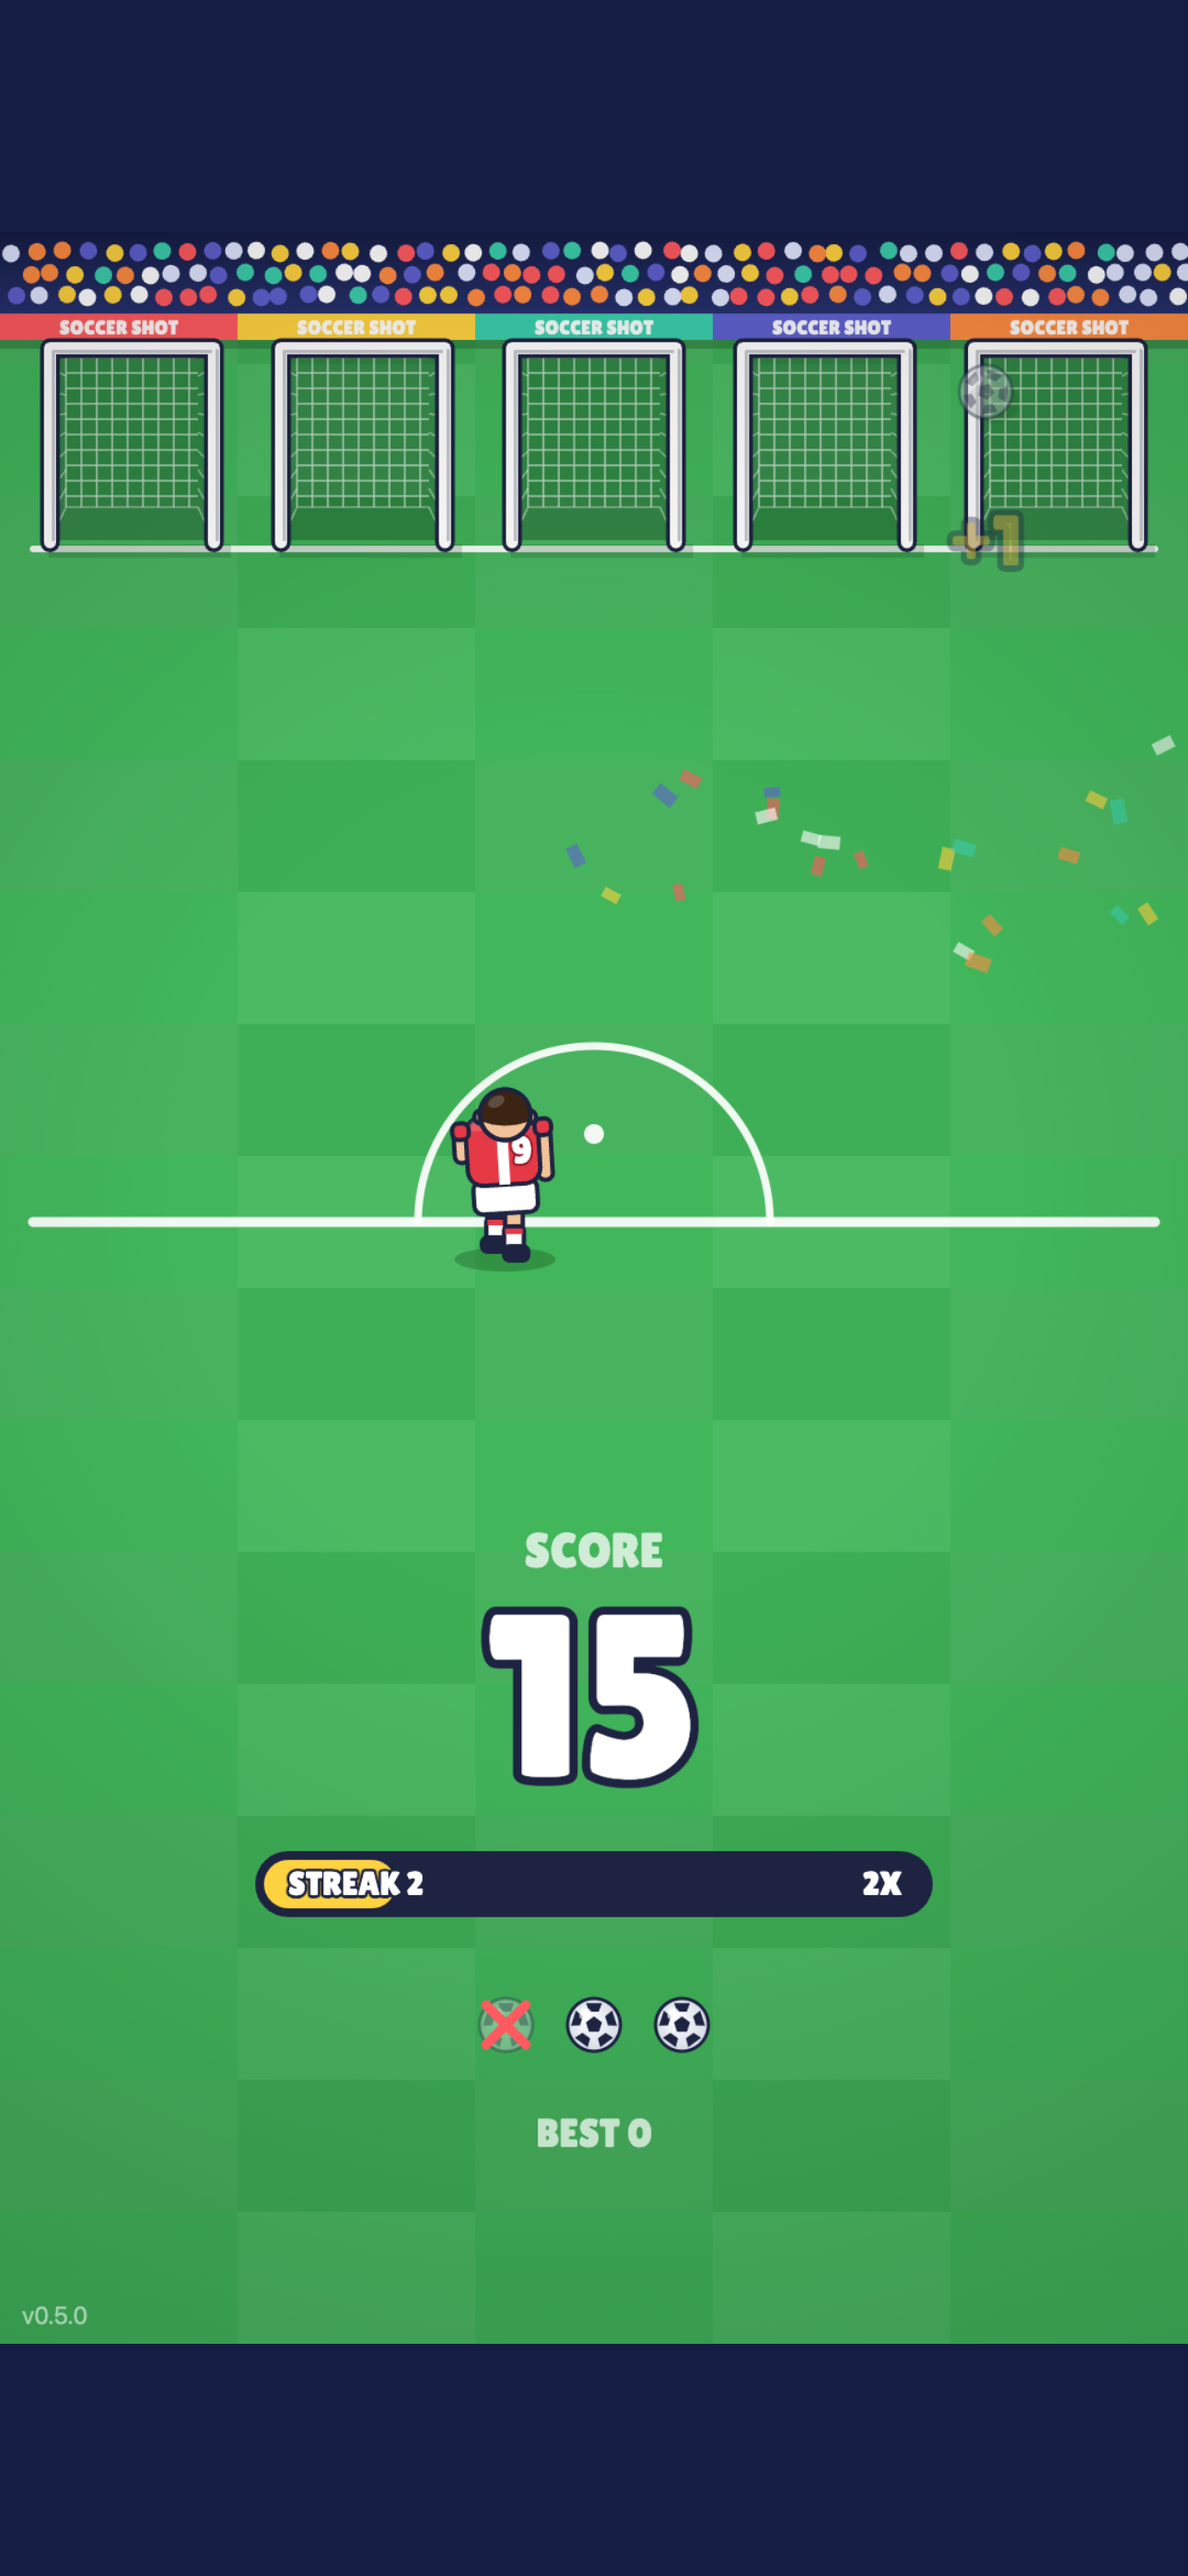
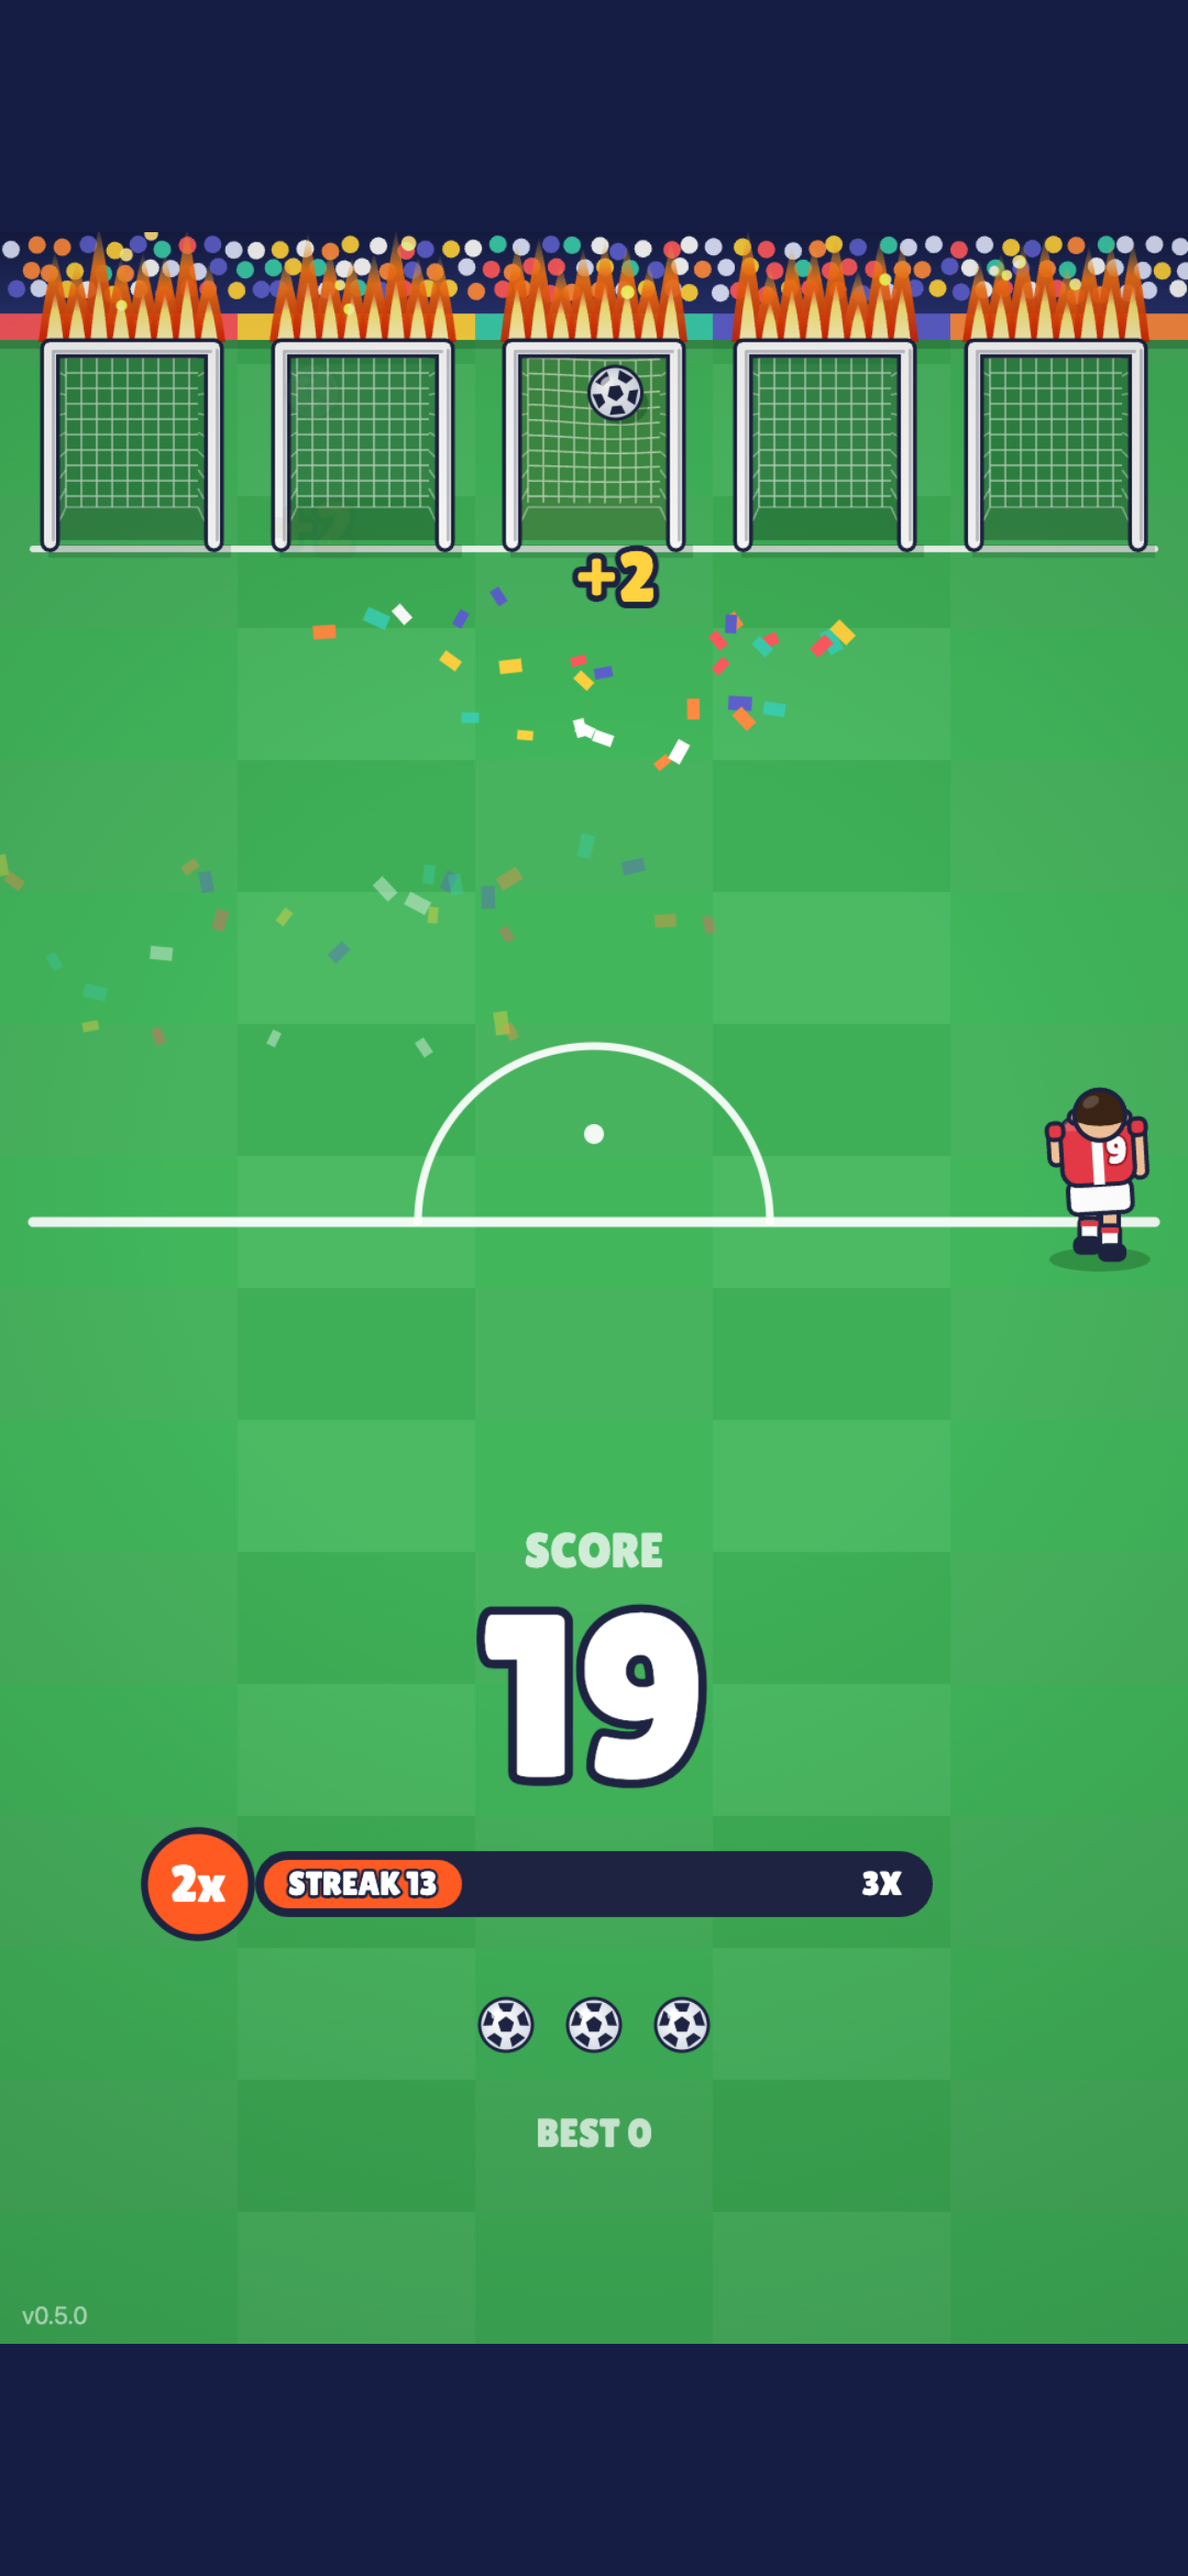
Screenshot mode: only kick while under a goal
Fixed-time kicks sometimes missed, so store captures showed a reset
streak. Kicks now fire from the loop inside a short window before each
capture, only when the striker is under a goal. Streak seeds at 9 so the
first goal lights the fire for the rest of the captures. Screenshots
regenerated.

diff --git a/game.js b/game.js
@@ -1283,6 +1283,7 @@ function loop(t) {
   } else {
     game.overScreenAge = 0;
   }
+  updateScreenshotKicks();
   update(dt);
   render();
   rafId = requestAnimationFrame(loop);
@@ -1319,16 +1320,34 @@ document.addEventListener('visibilitychange', () => {
 const screenshotMode =
   (typeof window !== 'undefined' && window.PlaySDK && window.PlaySDK.screenshotMode) ||
   (typeof location !== 'undefined' && new URLSearchParams(location.search).get('screenshot') === '1');
+// Capture offsets (ms after load) must stay in sync with screenshot.js. Before
+// each capture there's a short kick window; the kick fires only while the
+// striker is under a goal, so every frame shows a ball that is in flight or
+// just scored, never a miss.
+const SCREENSHOT_CAPTURES_MS = [800, 1800, 2800, 4000, 5500];
+const SCREENSHOT_KICK_LEAD_MS = 350; // window opens this long before a capture
+const SCREENSHOT_KICK_LATE_MS = 80;  // and closes this long before it
+let screenshotNext = -1;             // index of the next capture, -1 = off
+let screenshotStart = 0;
+function updateScreenshotKicks() {
+  if (screenshotNext < 0 || screenshotNext >= SCREENSHOT_CAPTURES_MS.length) return;
+  if (game.state !== STATE_PLAYING) return;
+  const t = performance.now() - screenshotStart;
+  const capture = SCREENSHOT_CAPTURES_MS[screenshotNext];
+  if (t > capture - SCREENSHOT_KICK_LATE_MS) { screenshotNext++; return; }
+  if (t < capture - SCREENSHOT_KICK_LEAD_MS) return;
+  const gi = goalIndexAt(game.playerX);
+  if (gi >= 0 && Math.abs(game.playerX - GOAL_CENTERS[gi]) < 50) {
+    spawnBall(game.playerX);
+    screenshotNext++;
+  }
+}
 if (screenshotMode) {
   startGame();
   game.score = 12;
-  game.consecutive = 8;
-  // Spawn a ball ~150ms before each expected capture time so every screenshot
-  // catches a ball mid-flight. Offsets must stay in sync with screenshot.js.
-  const captureOffsetsMs = [800, 1800, 2800, 4000, 5500];
-  captureOffsetsMs.forEach((t) => {
-    setTimeout(() => { if (game.state === STATE_PLAYING) spawnBall(game.playerX); }, Math.max(0, t - 150));
-  });
+  game.consecutive = 9; // one goal short of 2x, so the first goal lights the fire
+  screenshotStart = performance.now();
+  screenshotNext = 0;
 }
 
 // Kick off

diff --git a/docs/superpowers/specs/2026-04-14-screenshot-mode-design.md b/docs/superpowers/specs/2026-04-14-screenshot-mode-design.md
@@ -52,3 +52,14 @@ The script is for local verification only. It is not deployed (already in `.zipi
   won't produce SFX in screenshot mode. That's fine — screenshots are silent.
 - **Version bump.** Per `GAME_DEV_NOTES.md`, bump `VERSION` since this is a
   user-visible change to init behavior.
+
+## Update (2026-11-06)
+
+Fixed-time `setTimeout` kicks sometimes landed between goals, so captures
+showed misses and a reset streak. Kicks are now driven from the game loop:
+before each capture offset there is a window (350 ms → 80 ms before the
+capture) and the kick fires only while the striker is within 50 px of a goal
+centre. Every capture gets a ball that is in flight or has just scored.
+`game.consecutive` is seeded at 9, so the first goal crosses into 2x and the
+goals are on fire for the remaining captures (still not over the threshold at
+load).
